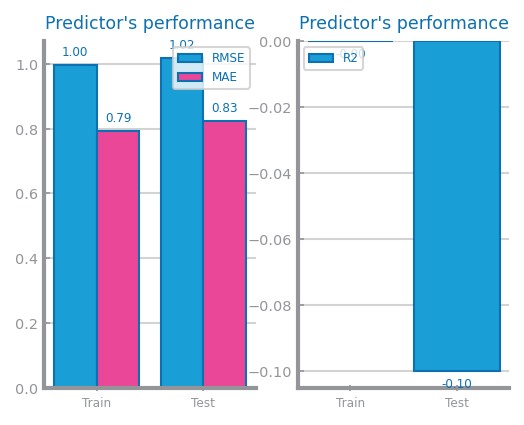
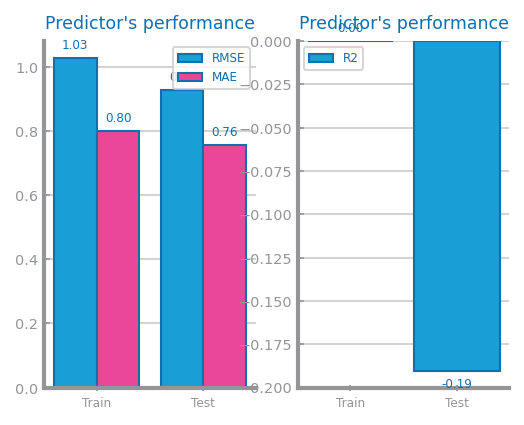
Last changes

diff --git a/diabetesDataset/lab2/dataPreparationMiguel.py b/diabetesDataset/lab2/dataPreparationMiguel.py
@@ -1,5 +1,6 @@
 # %%# - Imports
 
+from matplotlib.pyplot import subplots, show
 import pandas as pd
 from pandas.plotting import register_matplotlib_converters
 from matplotlib.pyplot import figure, savefig, show, subplots
@@ -429,15 +430,27 @@ balancingEvaluator(data, 'readmitted')
 data = pd.read_csv('mv_replace_mv.csv')
 data.drop(['Unnamed: 0', 'encounter_id', 'patient_nbr'],
           axis=1, inplace=True)  # Dropping ids
-data, _ = zScoreScalling(data)
-data.to_csv('zScoredData.csv', index = False)
+norm_data_zscore, _ = zScoreScalling(data)
+norm_data_zscore.to_csv('zScoredData.csv', index = False)
 
 # %% Get Best Set Scalling (zScore)
 data = pd.read_csv('mv_replace_mv.csv')
 data.drop(['Unnamed: 0', 'encounter_id', 'patient_nbr'],
           axis=1, inplace=True)  # Dropping ids
-data, _ = minMaxScalling(data)
-data.to_csv('minMaxedData.csv', index = False)
+norm_data_minmax, _ = minMaxScalling(data)
+norm_data_minmax.to_csv('minMaxedData.csv', index = False)
+
+# %% Get Box Plots
+
+fig, axs = subplots(1, 3, figsize=(20, 10), squeeze=False)
+axs[0, 0].set_title('Original data')
+data.boxplot(ax=axs[0, 0])
+axs[0, 1].set_title('Z-score normalization')
+norm_data_zscore.boxplot(ax=axs[0, 1])
+axs[0, 2].set_title('MinMax normalization')
+norm_data_minmax.boxplot(ax=axs[0, 2])
+show()
+
 
 # %% 
 ## Best balancing technique is Tomek's Link + SMOTE

diff --git a/diabetesDataset/gradientBoost/gradientBoostParameterisation.py b/diabetesDataset/gradientBoost/gradientBoostParameterisation.py
@@ -119,6 +119,6 @@ figure(figsize=(4, 8))
 horizontal_bar_chart(elems, importances[indices], stdevs[indices],
                      title='Gradient Boosting Features importance', xlabel='importance', ylabel='variables')
 savefig(f'images/{file_tag}_gb_ranking.png')
-tight_layout(pad=0.1, w_pad=0.1, h_pad=0.1)
+tight_layout(pad=0.5, w_pad=0.5, h_pad=0.5)
 
 # %%

diff --git a/diabetesDataset/lab7/lstm.py b/diabetesDataset/lab7/lstm.py
@@ -67,9 +67,6 @@ data['Date'] = pd.to_datetime(data['Date'], format="%Y-%m-%d %H:%M")
 data = data.set_index('Date')  # Droping Index col
 
 nr_features = len(data.columns)
-sc = MinMaxScaler()
-data = DataFrame(sc.fit_transform(
-    data), index=data.index, columns=data.columns)
 manual_seed(50)
 train, test = split_dataframe(data, trn_pct=.70)
 

diff --git a/diabetesDataset/lab6/simpleAvg.py b/diabetesDataset/lab6/simpleAvg.py
@@ -14,6 +14,7 @@ target = 'Glucose'
 data = read_csv('../lab6/preTransformationsGlucose.csv')
 data['Date'] = pd.to_datetime(data['Date'], format="%Y-%m-%d %H:%M")
 data = data.set_index('Date')  # Droping Index col
+data.drop(columns=['Insulin'], inplace=True)
 
 train, test = split_dataframe(data, trn_pct=0.75)
 
